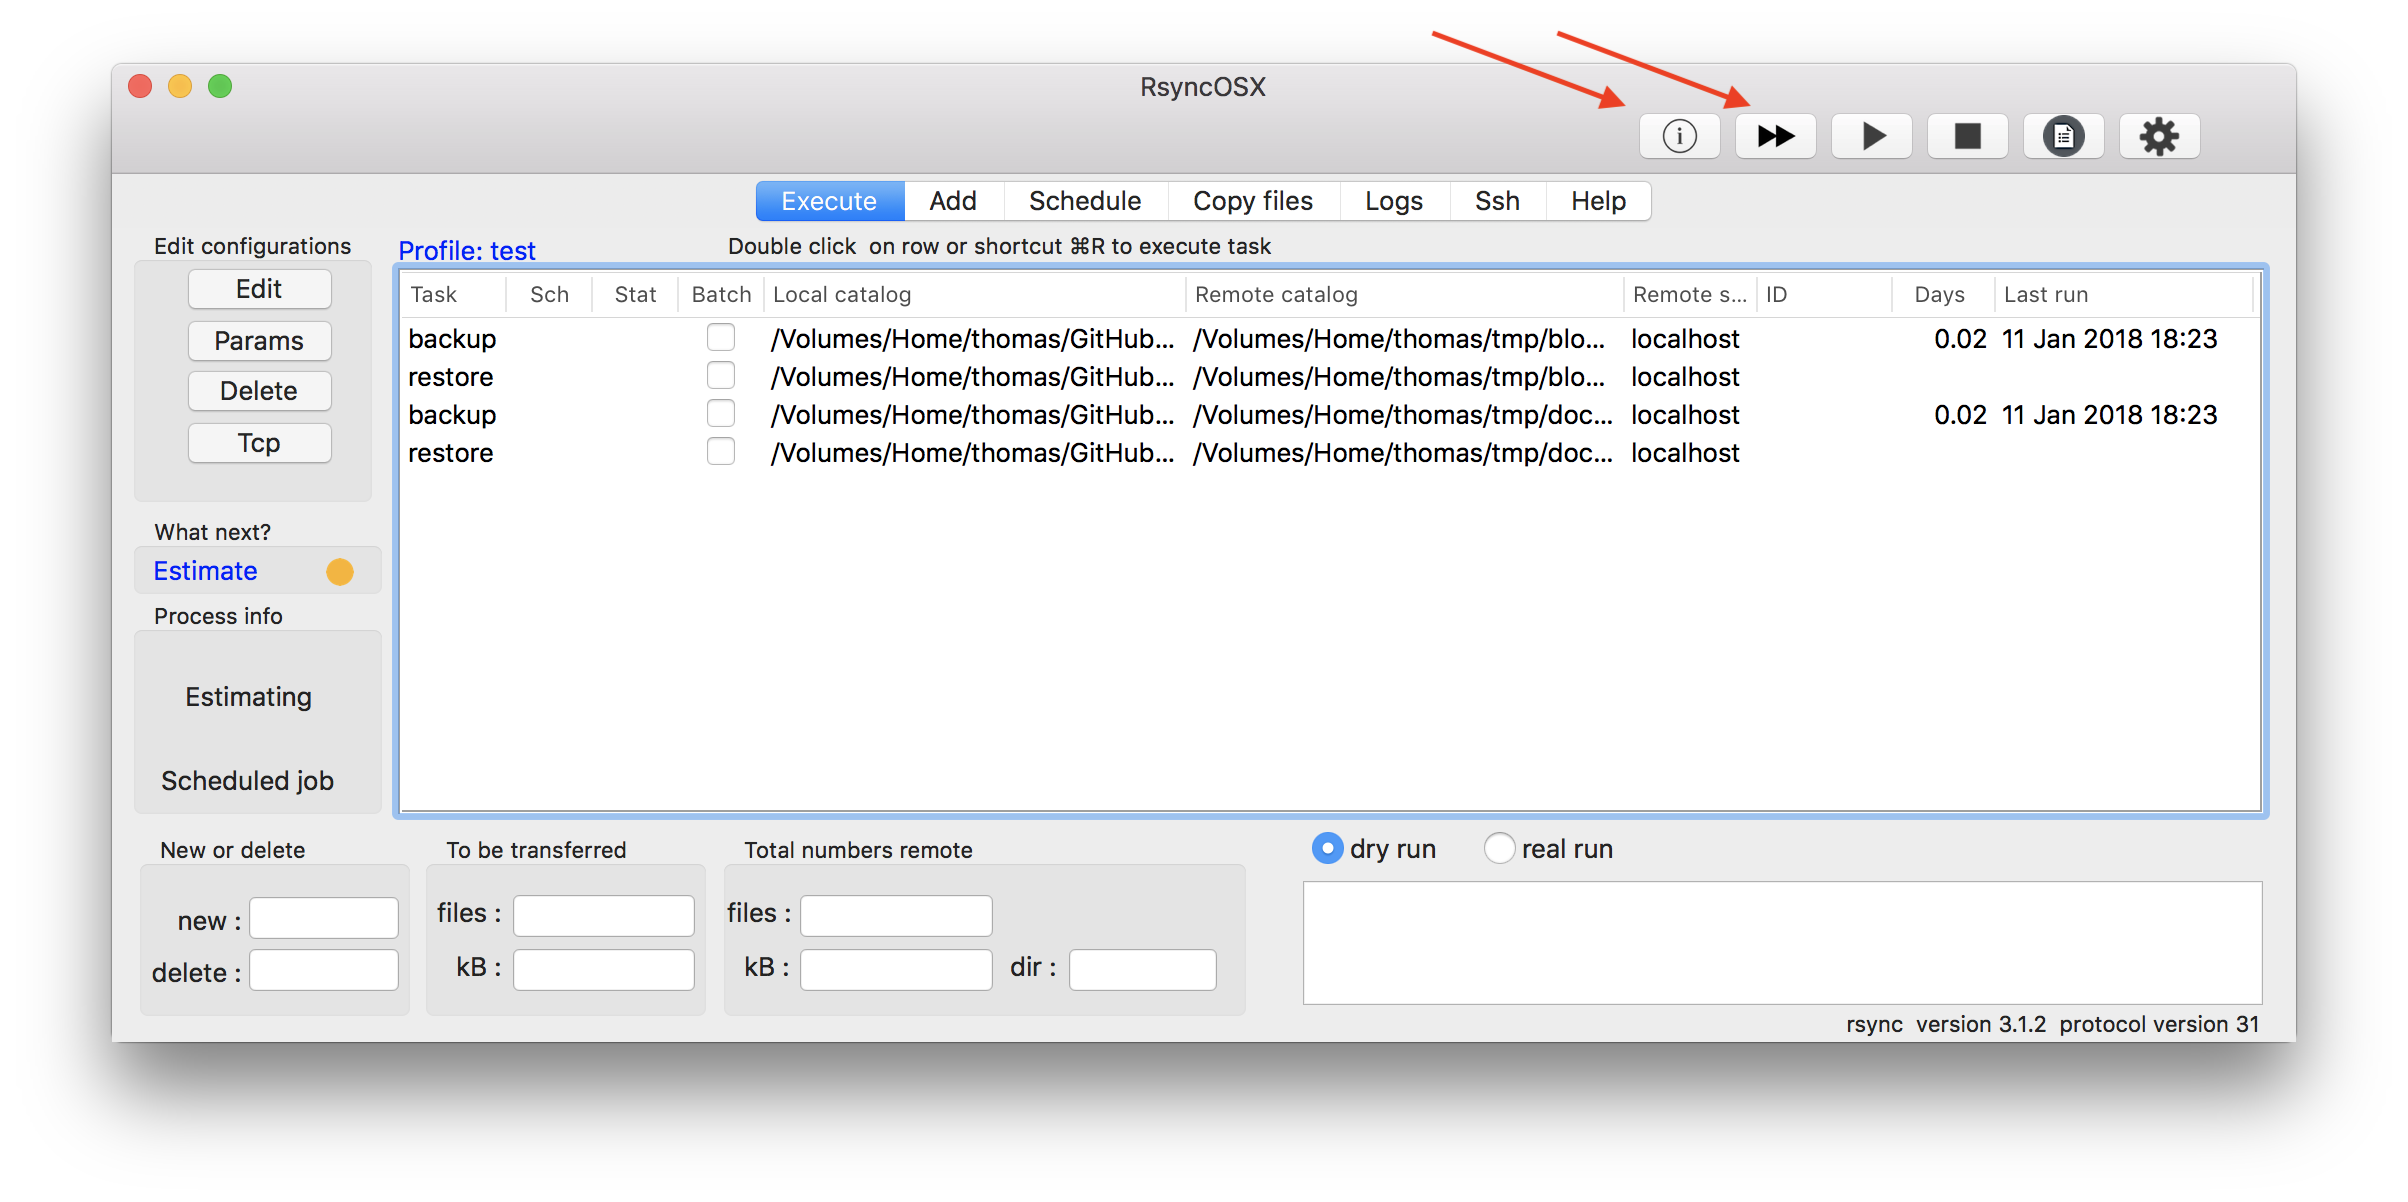
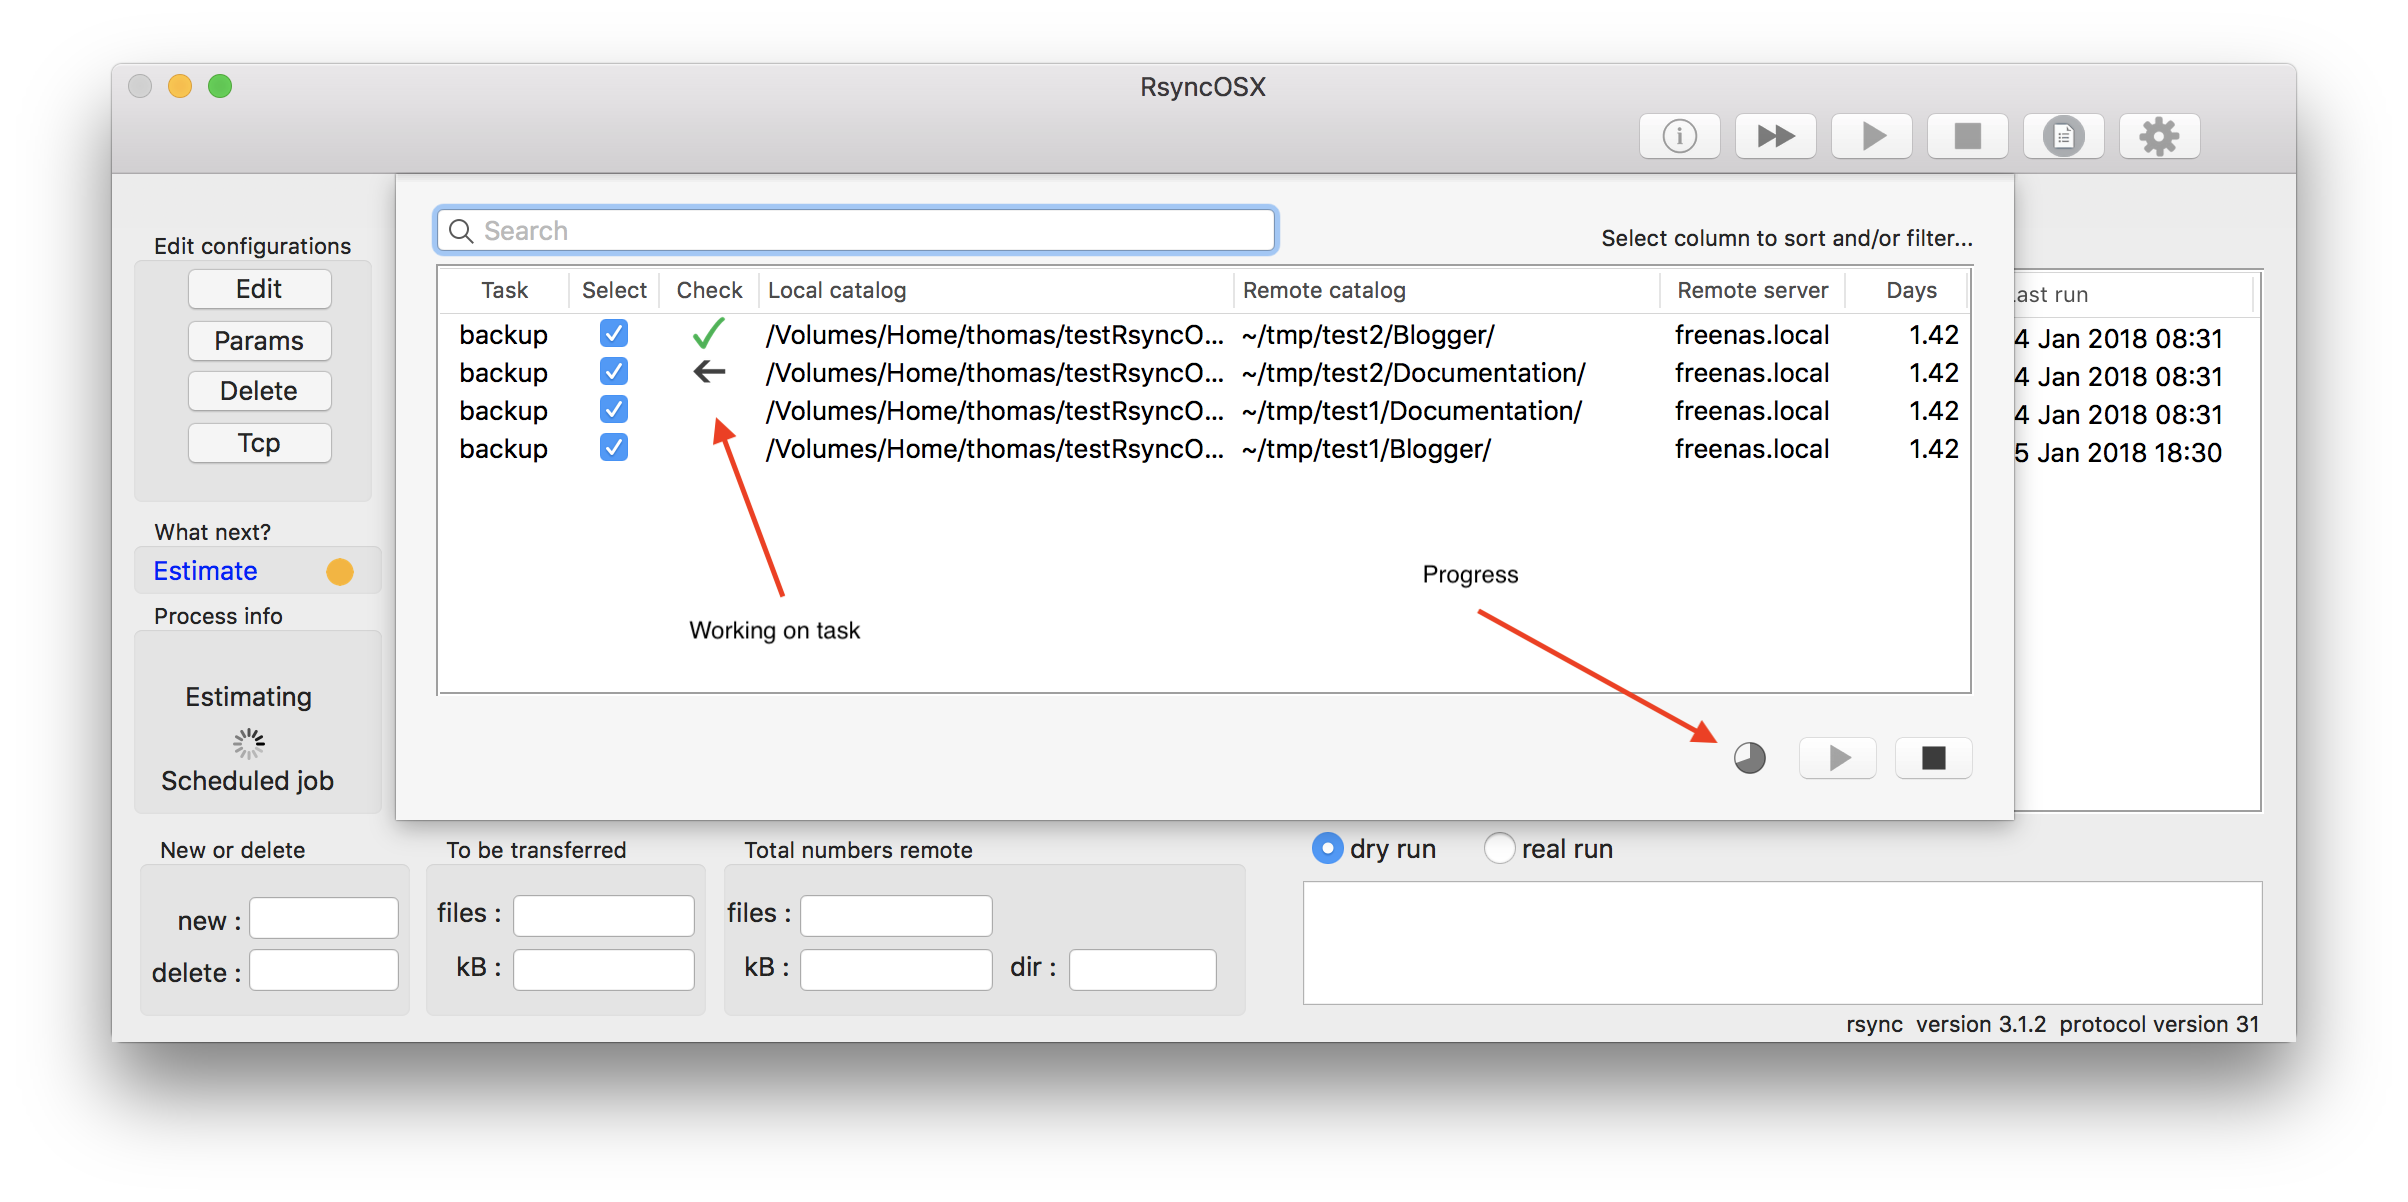
update

diff --git a/docs/Quickbackup.md b/docs/Quickbackup.md
@@ -2,6 +2,9 @@
 
 Index of [RsyncOSX documentation](https://rsyncosx.github.io/Documentation/).
 
-![Main view](screenshots/master/quickbackup/quick1.png)
+There are two options for executing quick backups, either go via the i-button or directly to quickbackup. The best way is to go via the i-button. By selecting the tasks for quickbackup within the information view (i-button), RsyncOSX picks up the estimation and uses the numbers to indicate the progress of backup.
+
+The information view. Select tasks to backup and press play button. RsyncOSX automatically opens the quick backup view and commence teh backup tasks.
 ![Main view](screenshots/master/quickbackup/quick2.png)
-![Main view](screenshots/master/quickbackup/quick3.png)
+The backup tasks are automatically executed and the progress about each tasks is presented.
+![Main view](screenshots/master/quickbackup/quick1.png)
